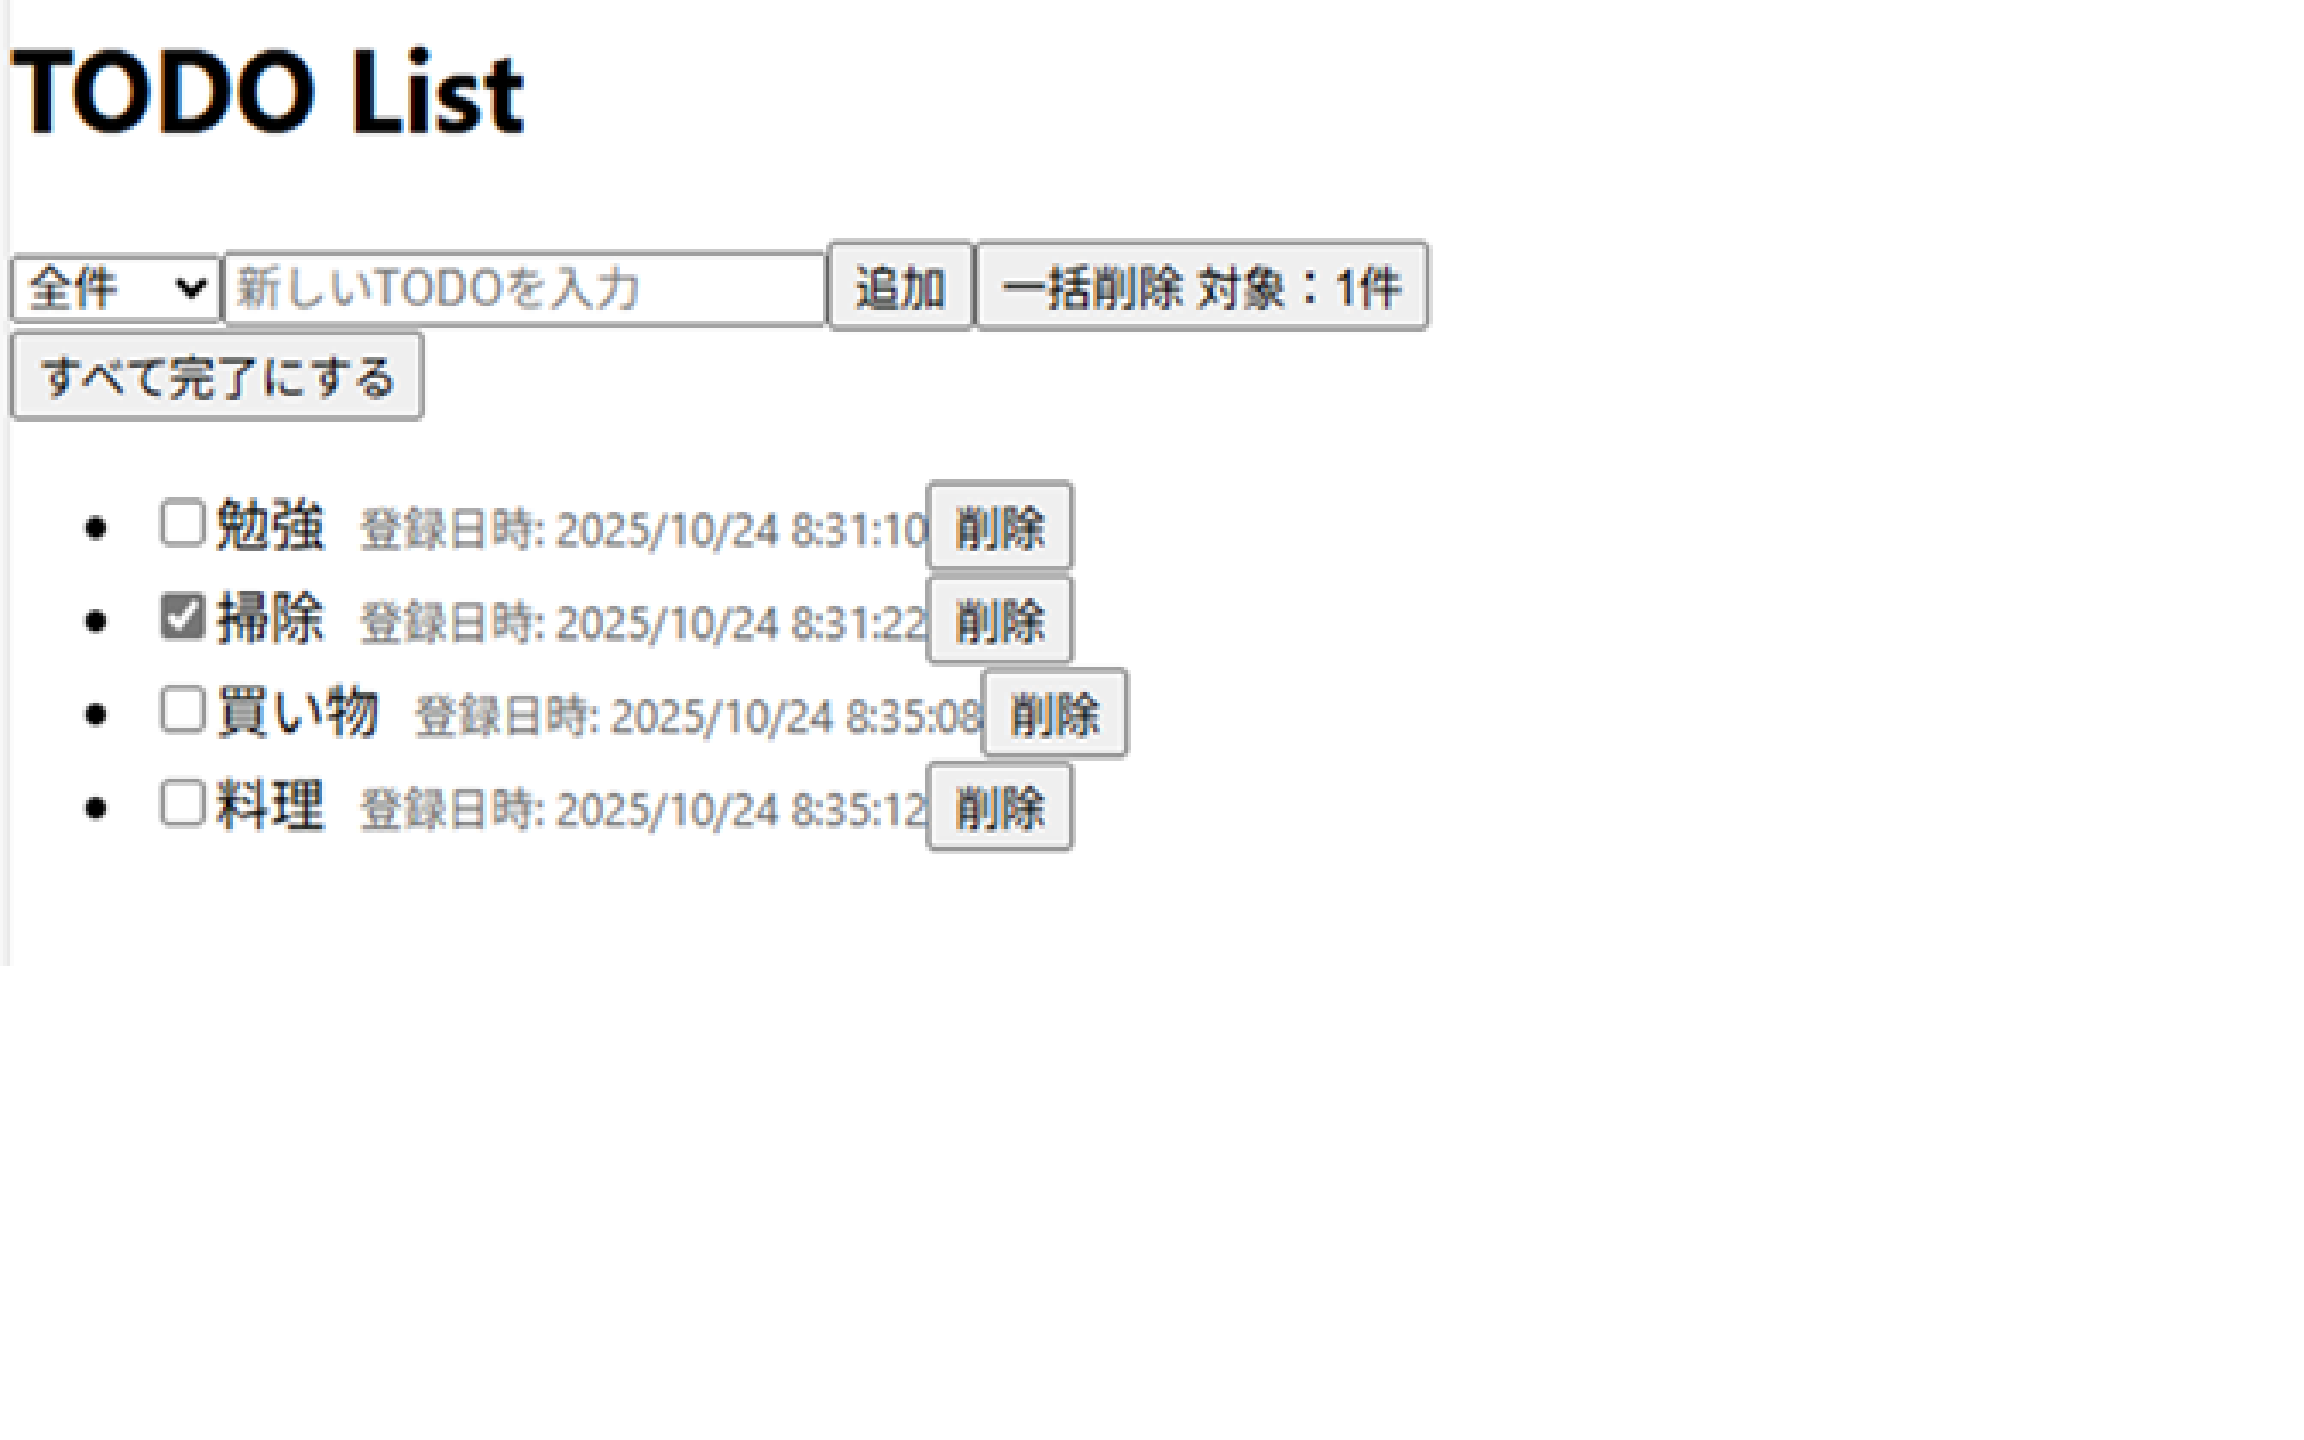
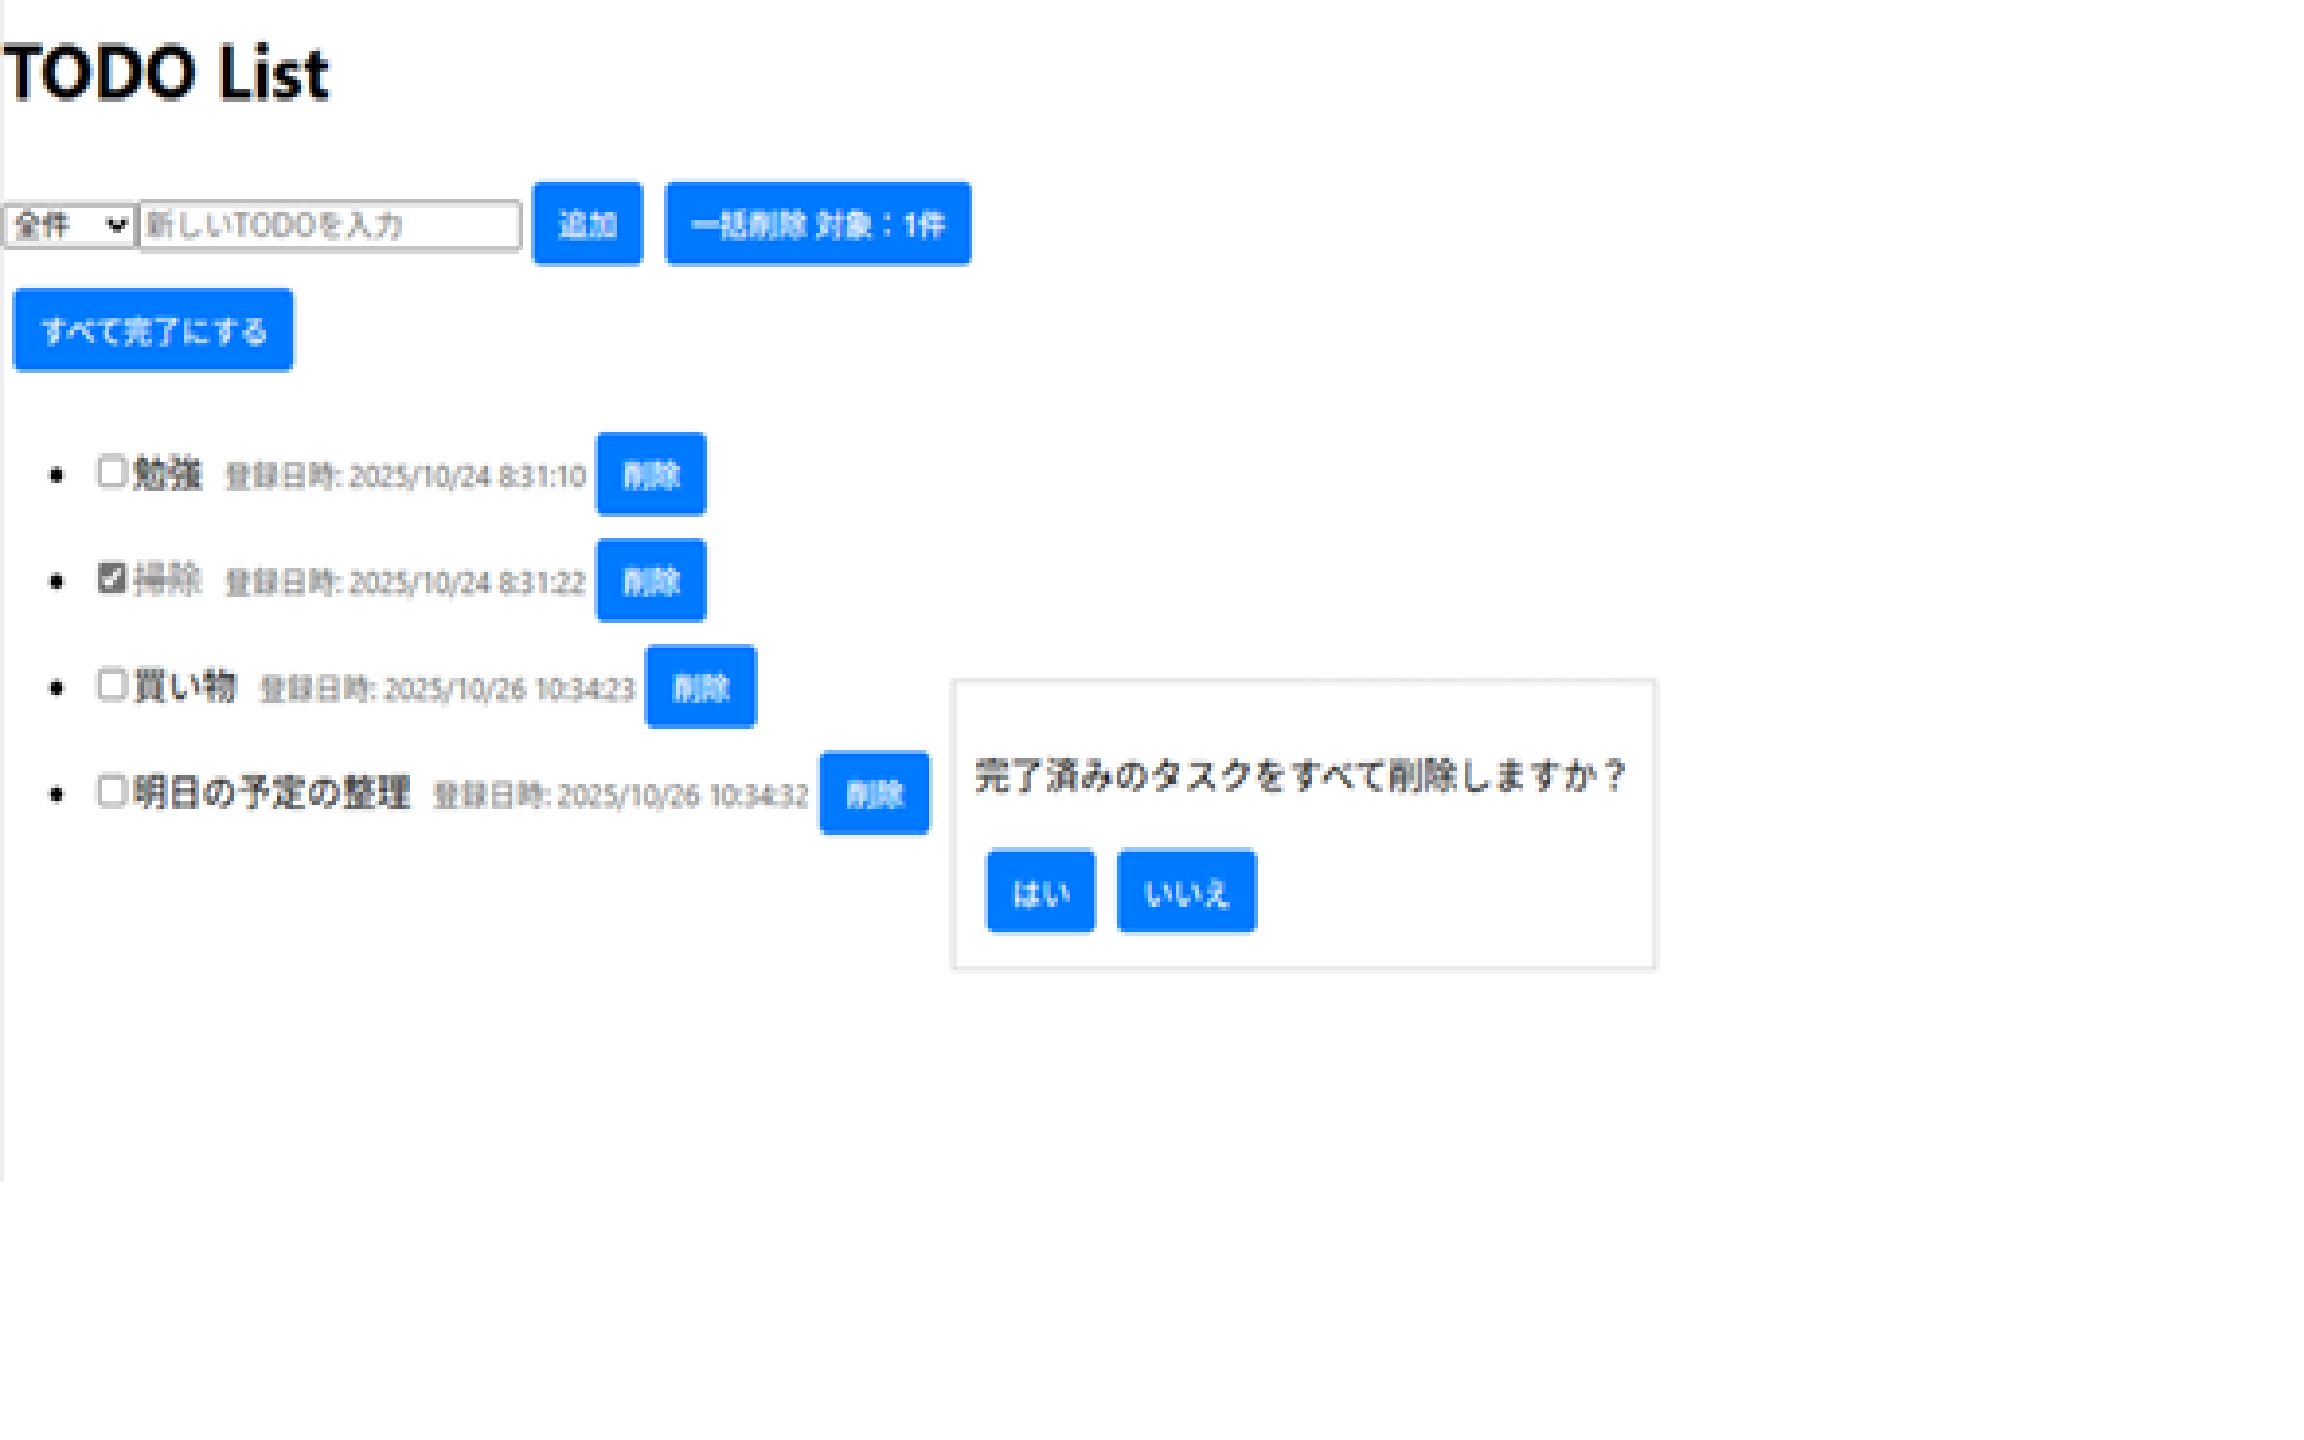
スクリーンショットの最新化

Changed region(s): [[0.0, 0.125, 0.7188, 0.6562], [0.0, 0.0312, 0.25, 0.0938]]

diff --git a/src/components/StyledButton.tsx b/src/components/StyledButton.tsx
@@ -1,11 +1,15 @@
 import styled from "styled-components";
 
-const StyledButton = styled.button<{ variant?: "danger" | "default" }>`
-  background: ${(props) =>
-    props.variant === "danger" ? "#dc3545" : "#007bff"};
+const StyledButton = styled.button`
+  margin: 5px;
+  padding: 8px 12px;
+  background: #007bff;
+  color: white;
+  border: none;
+  border-radius: 4px;
+
   &:hover {
-    background: ${(props) =>
-      props.variant === "danger" ? "#a71d2a" : "#0056b3"};
+    background: #0056b3;
   }
 `;
 export default StyledButton;
